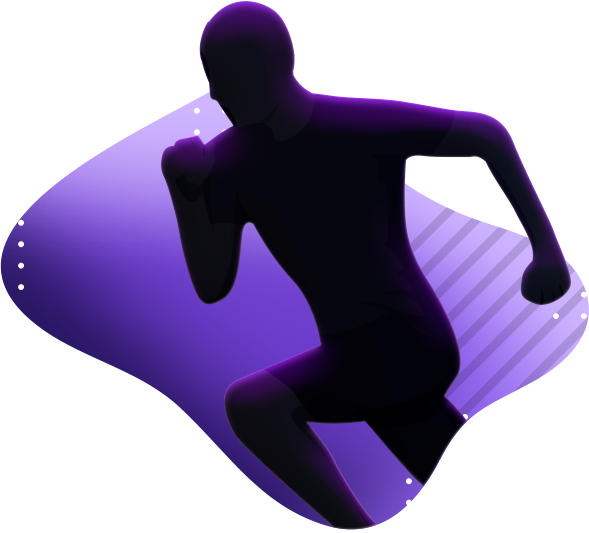
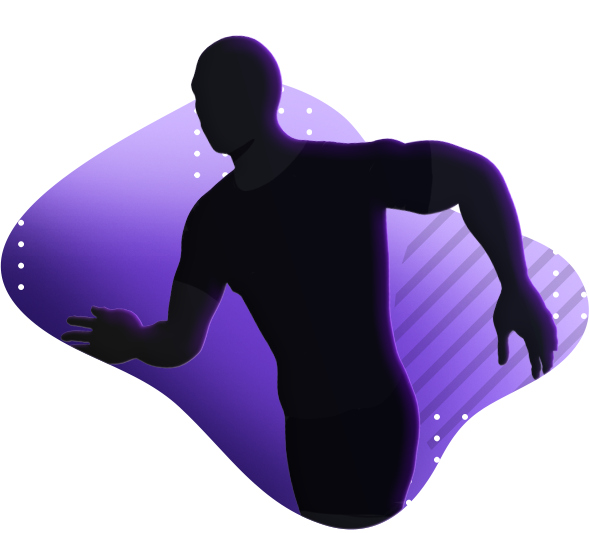
feat: add gifs

Changed region(s): [[0.0917, 0.0, 0.9779, 0.9906], [0.489, 0.9006, 0.5806, 0.9906]]

diff --git a/src/features/questions/worlds/modality/questions.js b/src/features/questions/worlds/modality/questions.js
@@ -1,20 +1,36 @@
 import musculacao_m from 'assets/imgs/musculacao_m.png';
+import musculacao_animation_m from 'assets/imgs/musculacao_m.gif';
 import correr_m from 'assets/imgs/correr_m.png';
+import correr_animation_m from 'assets/imgs/correr_m.gif';
 import pedalar_m from 'assets/imgs/pedalar_m.png';
+import pedalar_animation_m from 'assets/imgs/pedalar_m.gif';
 import nadar_m from 'assets/imgs/nadar_m.png';
+import nadar_animation_m from 'assets/imgs/nadar_m.gif';
 import funcional_m from 'assets/imgs/funcional_m.png';
+import funcional_animation_m from 'assets/imgs/funcional_m.gif';
 import yoga_m from 'assets/imgs/yoga_m.png';
-import dancar_m from 'assets/imgs/dancar_m.png';
+import yoga_animation_m from 'assets/imgs/yoga_m.gif';
+import dancar_m from 'assets/imgs/danca_m.png';
+import dancar_animation_m from 'assets/imgs/danca_m.gif';
 import alongar_m from 'assets/imgs/alongar_m.png';
+import alongar_animation_m from 'assets/imgs/alongar_m.gif';
 
 import musculacao_f from 'assets/imgs/musculacao_f.png';
+import musculacao_animation_f from 'assets/imgs/musculacao_f.gif';
 import correr_f from 'assets/imgs/correr_f.png';
+import correr_animation_f from 'assets/imgs/correr_f.gif';
 import pedalar_f from 'assets/imgs/pedalar_f.png';
+import pedalar_animation_f from 'assets/imgs/pedalar_f.gif';
 import nadar_f from 'assets/imgs/nadar_f.png';
+import nadar_animation_f from 'assets/imgs/nadar_f.gif';
 import funcional_f from 'assets/imgs/funcional_f.png';
+import funcional_animation_f from 'assets/imgs/funcional_f.gif';
 import yoga_f from 'assets/imgs/yoga_f.png';
+import yoga_animation_f from 'assets/imgs/yoga_f.gif';
 import dancar_f from 'assets/imgs/danca_f.png';
+import dancar_animation_f from 'assets/imgs/danca_f.gif';
 import alongar_f from 'assets/imgs/alongar_f.png';
+import alongar_animation_f from 'assets/imgs/alongar_f.gif';
 
 export const MODALITY_QUESTIONS = {
   "questions": 
@@ -30,7 +46,9 @@ export const MODALITY_QUESTIONS = {
           {
             id: 1,
             "title": "musculação",
-            "img": (sex) => (sex === 'sex-m' ? musculacao_m : musculacao_f),
+            "img": (sex, isAnimation) => !isAnimation ?
+              (sex === 'sex-m' ? musculacao_m : musculacao_f) :
+              (sex === 'sex-m' ? musculacao_animation_m : musculacao_animation_f),
             points: [
               {
                 chart: "MICRO_GYM",
@@ -48,7 +66,9 @@ export const MODALITY_QUESTIONS = {
           {
             id: 2,
             "title": "correr",
-            "img": (sex) => (sex === 'sex-m' ? correr_m : correr_f),
+            "img": (sex, isAnimation) => !isAnimation ?
+              (sex === 'sex-m' ? correr_m : correr_f) :
+              (sex === 'sex-m' ? correr_animation_m : correr_animation_f),
             points: [
               {
                 chart: "MICRO_GYM",
@@ -66,7 +86,9 @@ export const MODALITY_QUESTIONS = {
           {
             id: 3,
             "title": "pedalar",
-            "img": (sex) => (sex === 'sex-m' ? pedalar_m : pedalar_f),
+            "img": (sex, isAnimation) => !isAnimation ?
+              (sex === 'sex-m' ? pedalar_m : pedalar_f) :
+              (sex === 'sex-m' ? pedalar_animation_m : pedalar_animation_f),
             points: [
               {
                 chart: "MICRO_GYM",
@@ -84,7 +106,9 @@ export const MODALITY_QUESTIONS = {
           {
             id: 4,
             "title": "nadar",
-            "img": (sex) => (sex === 'sex-m' ? nadar_m : nadar_f),
+            "img": (sex, isAnimation) => !isAnimation ? 
+              (sex === 'sex-m' ? nadar_m : nadar_f) :
+              (sex === 'sex-m' ? nadar_animation_m : nadar_animation_f),
             points: [
               {
                 chart: "MICRO_GYM",
@@ -102,7 +126,9 @@ export const MODALITY_QUESTIONS = {
           {
             id: 5,
             "title": "funcional",
-            "img": (sex) => (sex === 'sex-m' ? funcional_m : funcional_f),
+            "img": (sex, isAnimation) => !isAnimation ?
+              (sex === 'sex-m' ? funcional_m : funcional_f) :
+              (sex === 'sex-m' ? funcional_animation_m : funcional_animation_f),
             points: [
               {
                 chart: "MICRO_GYM",
@@ -120,7 +146,9 @@ export const MODALITY_QUESTIONS = {
           {
             id: 6,
             "title": "yoga",
-            "img": (sex) => (sex === 'sex-m' ? yoga_m : yoga_f),
+            "img": (sex, isAnimation) => !isAnimation ?
+              (sex === 'sex-m' ? yoga_m : yoga_f) :
+              (sex === 'sex-m' ? yoga_animation_m : yoga_animation_f),
             points: [
               {
                 chart: "MICRO_GYM",
@@ -138,7 +166,9 @@ export const MODALITY_QUESTIONS = {
           {
             id: 7,
             "title": "dançar",
-            "img": (sex) => (sex === 'sex-m' ? dancar_m : dancar_f),
+            "img": (sex, isAnimation) => !isAnimation ? 
+              (sex === 'sex-m' ? dancar_m : dancar_f) :
+              (sex === 'sex-m' ? dancar_animation_m : dancar_animation_f),
             points: [
               {
                 chart: "MICRO_GYM",
@@ -156,7 +186,9 @@ export const MODALITY_QUESTIONS = {
           {
             id: 8,
             "title": "alongar",
-            "img": (sex) => (sex === 'sex-m' ? alongar_m : alongar_f),
+            "img": (sex, isAnimation) => !isAnimation ? 
+              (sex === 'sex-m' ? alongar_m : alongar_f) : 
+              (sex === 'sex-m' ? alongar_animation_m : alongar_animation_f),
             points: [
               {
                 chart: "MICRO_GYM",

diff --git a/src/features/questions/profile/questions.js b/src/features/questions/profile/questions.js
@@ -1,15 +1,25 @@
 import React from 'react';
 import bem_estar_m from 'assets/imgs/avatar_bemestar_m.png';
+import bem_estar_animado_m from 'assets/imgs/avatar_bemestar_m.gif';
 import espiritual_m from 'assets/imgs/avatar_espiritual_m.png';
+import espiritual_animado_m from 'assets/imgs/avatar_espiritual_m.gif';
 import estetico_m from 'assets/imgs/avatar_estetico_m.png';
+import estetico_animado_m from 'assets/imgs/avatar_estetico_m.gif';
 import resistencia_m from 'assets/imgs/avatar_resistencia_m.png';
+import resistencia_animado_m from 'assets/imgs/avatar_resistencia_m.gif';
 import sociavel_m from 'assets/imgs/avatar_sociavel_m.png';
+import sociavel_animado_m from 'assets/imgs/avatar_sociavel_m.gif';
 
 import bem_estar_f from 'assets/imgs/avatar_bemestar_f.png';
+import bem_estar_animado_f from 'assets/imgs/avatar_bemestar_f.gif';
 import espiritual_f from 'assets/imgs/avatar_espiritual_f.png';
+import espiritual_animado_f from 'assets/imgs/avatar_espiritual_f.gif';
 import estetico_f from 'assets/imgs/avatar_estetico_f.png';
+import estetico_animado_f from 'assets/imgs/avatar_estetico_f.gif';
 import resistencia_f from 'assets/imgs/avatar_resistencia_f.png';
+import resistencia_animado_f from 'assets/imgs/avatar_resistencia_f.gif';
 import sociavel_f from 'assets/imgs/avatar_sociavel_f.png';
+import sociavel_animado_f from 'assets/imgs/avatar_sociavel_f.gif';
 
 export const AVATAR_QUESTIONS = {
   "questions": 
@@ -23,7 +33,9 @@ export const AVATAR_QUESTIONS = {
           {
             id: 1,
             "title": "bem-estar",
-            "img": (sex) => (sex === 'sex-m' ? bem_estar_m : bem_estar_f),
+            "img": (sex, isAnimation) => !isAnimation ?
+              (sex === 'sex-m' ? bem_estar_m : bem_estar_f) :
+              (sex === 'sex-m' ? bem_estar_animado_m : bem_estar_animado_f),
             points: [
               {
                 chart: "MICRO_GYM",
@@ -50,7 +62,9 @@ export const AVATAR_QUESTIONS = {
           {
             id: 2,
             "title": "resistencia e energia",
-            "img": (sex) => (sex === 'sex-m' ? resistencia_m : resistencia_f),
+            "img": (sex, isAnimation) => !isAnimation ?
+              (sex === 'sex-m' ? resistencia_m : resistencia_f):
+              (sex === 'sex-m' ? resistencia_animado_m : resistencia_animado_f),
             points: [
               {
                 chart: "MICRO_GYM",
@@ -77,7 +91,9 @@ export const AVATAR_QUESTIONS = {
           {
             id: 3,
             "title": "sociavel",
-            "img": (sex) => (sex === 'sex-m' ? sociavel_m : sociavel_f),
+            "img": (sex, isAnimation) => !isAnimation ?
+              (sex === 'sex-m' ? sociavel_m : sociavel_f):
+              (sex === 'sex-m' ? sociavel_animado_m : sociavel_animado_f),
             points: [
               {
                 chart: "MICRO_GYM",
@@ -104,7 +120,9 @@ export const AVATAR_QUESTIONS = {
           {
             id: 4,
             "title": "estético",
-            "img": (sex) => (sex === 'sex-m' ? estetico_m : estetico_f),
+            "img": (sex, isAnimation) => !isAnimation ?
+              (sex === 'sex-m' ? estetico_m : estetico_f):
+              (sex === 'sex-m' ? estetico_animado_m : estetico_animado_f),
             points: [
               {
                 chart: "MICRO_GYM",
@@ -131,7 +149,9 @@ export const AVATAR_QUESTIONS = {
           {
             id: 5,
             "title": "espiritual",
-            "img": (sex) => (sex === 'sex-m' ? espiritual_m : espiritual_f),
+            "img": (sex, isAnimation) => !isAnimation ?
+              (sex === 'sex-m' ? espiritual_m : espiritual_f):
+              (sex === 'sex-m' ? espiritual_animado_m : espiritual_animado_f),
             points: [
               {
                 chart: "MICRO_GYM",

diff --git a/src/features/questions/worlds/health/questions.js b/src/features/questions/worlds/health/questions.js
@@ -1,12 +1,18 @@
 import training_m from 'assets/imgs/training_m.png';
+import training_animation_m from 'assets/imgs/training_m.gif';
 import not_training_m from 'assets/imgs/not_training_m.png';
+import not_training_animation_m from 'assets/imgs/not_training_m.gif';
 import never_training_m from 'assets/imgs/never_training_m.png';
 import sporadically_training_m from 'assets/imgs/sporadically_training_m.png';
+import sporadically_training_animation_m from 'assets/imgs/sporadically_training_m.gif';
 
 import training_f from 'assets/imgs/training_f.png';
+import training_animation_f from 'assets/imgs/training_f.gif';
 import not_training_f from 'assets/imgs/not_training_f.png';
+import not_training_animation_f from 'assets/imgs/not_training_f.gif';
 import never_training_f from 'assets/imgs/never_training_f.png';
 import sporadically_training_f from 'assets/imgs/sporadically_training_f.png';
+import sporadically_training_animation_f from 'assets/imgs/sporadically_training_f.gif';
 
 export const HEALTH_QUESTIONS = {
   "questions": 
@@ -22,7 +28,7 @@ export const HEALTH_QUESTIONS = {
             "id": 1,
             "title": "Estou treinando",
             "icon": "",
-            "img": (sex) => (sex === 'sex-m' ? training_m : training_f),
+            "img": (sex, isAnimation) => !isAnimation ? (sex === 'sex-m' ? training_m : training_f) : (sex === 'sex-m' ? training_animation_m : training_animation_f),
             points: [
               {
                 chart: "BODYBUILDING_PROGRAMS",
@@ -39,7 +45,7 @@ export const HEALTH_QUESTIONS = {
             "id": 2,
             "title": "Treino esporadicamente",
             "icon": "",
-            "img": (sex) => (sex === 'sex-m' ? sporadically_training_m : sporadically_training_f),
+            "img": (sex, isAnimation) => !isAnimation ? (sex === 'sex-m' ? sporadically_training_m : sporadically_training_f) : (sex === 'sex-m' ? sporadically_training_animation_m : sporadically_training_animation_f),
             points: [
               {
                 chart: "BODYBUILDING_PROGRAMS",
@@ -56,7 +62,7 @@ export const HEALTH_QUESTIONS = {
             "id": 3,
             "title": "Não estou treinando",
             "icon": "",
-            "img": (sex) => (sex === 'sex-m' ? not_training_m : not_training_f),
+            "img": (sex, isAnimation) => !isAnimation ? (sex === 'sex-m' ? not_training_m : not_training_f) : (sex === 'sex-m' ? not_training_animation_m : not_training_animation_f),
             points: [
               {
                 chart: "BODYBUILDING_PROGRAMS",

diff --git a/src/features/questions/worlds/health/containers/Physical.js b/src/features/questions/worlds/health/containers/Physical.js
@@ -15,6 +15,7 @@ import { CardSelectItem, SelectItemLine } from '../components';
 import { HEALTH_QUESTIONS } from '../questions';
 //style
 import './Physical.scss';
+import { zIndex } from 'material-ui/styles';
 
 const HealthPhysical = () => {
   const dispatch = useDispatch();
@@ -53,7 +54,7 @@ const HealthPhysical = () => {
                     icon=''
                     isSelected={selectedItem === index}
                     onSelectItem={() => setSelectedItem(index)}
-                    imgSrc={response.img(getStorageItem('persona')['sex'])}
+                    imgSrc={response.img(getStorageItem('persona')['sex'], selectedItem === index)}
                   />
                 </Animated>
               ))

diff --git a/src/features/questions/worlds/modality/containers/Modality.js b/src/features/questions/worlds/modality/containers/Modality.js
@@ -77,7 +77,7 @@ const Modality = () => {
               MODALITY_QUESTIONS.questions[0].responses.map((response, index) => (
                 <Animated animationInDelay={(index + 1) * 250} animationInDuration={1000} animationIn="rotateIn" isVisible={true}>
                   <CardSelectModality
-                    img={response.img(getStorageItem('persona')['sex'])}
+                    img={response.img(getStorageItem('persona')['sex'], selectedItems.find(i => i === response.title))}
                     text={response.title}
                     onSelectItem={() => onSelectItem(response.title, response.points)}
                     isSelected={selectedItems.find(i => i === response.title)}

diff --git a/src/features/questions/profile/containers/Avatar.js b/src/features/questions/profile/containers/Avatar.js
@@ -53,7 +53,10 @@ const Avatar = () => {
                   onClick={() => setSelectedItem(index)}
                 >
                   {/* <p className={selectedItem === index && 'selected'}>{response.title}</p> */}
-                  <img src={response.img(getStorageItem('persona')['sex'])} className={selectedItem === index && 'selected'}/>
+                  <img
+                    src={response.img(getStorageItem('persona')['sex'], selectedItem === index)} 
+                    // className={selectedItem === index && 'selected'}
+                  />
                 </div>
               </Animated>
             ))

diff --git a/src/ui/progressBar/ProgressBar.js b/src/ui/progressBar/ProgressBar.js
@@ -1,8 +1,8 @@
 import React, { useState } from 'react';
 import { useDispatch, useSelector } from 'react-redux';
-import progress_m from 'assets/imgs/corredor_m.png';
+import progress_m from 'assets/imgs/corredor_m.gif';
 import final_progress_m from 'assets/imgs/final_corredor_m.png';
-import progress_f from 'assets/imgs/corredor_f.png';
+import progress_f from 'assets/imgs/corredor_f.gif';
 import final_progress_f from 'assets/imgs/final_corredor_f.png';
 import { getStorageItem } from 'shared/utils';
 

diff --git a/src/shared/utils.js b/src/shared/utils.js
@@ -110,7 +110,7 @@ export const setDefaultStorage = () => {
           cardiovascular: {
             value: 0.0,
             legend: 'Cardiovascular',
-            description: 'Cardiovascular (Body combat, Power jump, Body step, Bio boxe, Body attack'
+            description: 'Cardiovascular (Body combat, Power jump, Body step, Bio boxe, Body attack)'
           },
           fortification: {
             value: 0.0,

diff --git a/src/features/main/containers/Main.js b/src/features/main/containers/Main.js
@@ -9,7 +9,7 @@ import { Link } from 'react-router-dom';
 import { AlertMsg, Loader, Logo, Effect } from 'ui';
 import { updateStorage, setDefaultStorage } from 'shared/utils';
 import ImgEffects from 'assets/imgs/effects_start.png';
-import ImgStart from 'assets/imgs/img_start.png';
+import ImgStart from 'assets/imgs/img_start.gif';
 //style
 import './Main.scss';
 

diff --git a/src/features/result/containers/Result.js b/src/features/result/containers/Result.js
@@ -252,6 +252,7 @@ const Result = ({ match }) => {
         setImgNew(dataURL)
         dispatch(actions.sendEmail({
           email: person.email,
+          name: person.name,
           img: dataURL,
         }))
         dispatch(actions.nextQuestion("/"));

diff --git a/src/features/questions/worlds/consultant/questions.js b/src/features/questions/worlds/consultant/questions.js
@@ -94,7 +94,7 @@ export const CONSULT_QUESTIONS = {
         },
         {
           id: 2,
-          text: 'De 2x a 5x'
+          text: 'De 3x a 4x'
         },
         {
           id: 3,

diff --git a/src/features/result/containers/Result.scss b/src/features/result/containers/Result.scss
@@ -2,6 +2,7 @@
 
 body {
   @include background-gradient($bg-dark-blue, $bg-light-blue);
+  font-family: 'Roboto';
 }
 
 .result-container {
